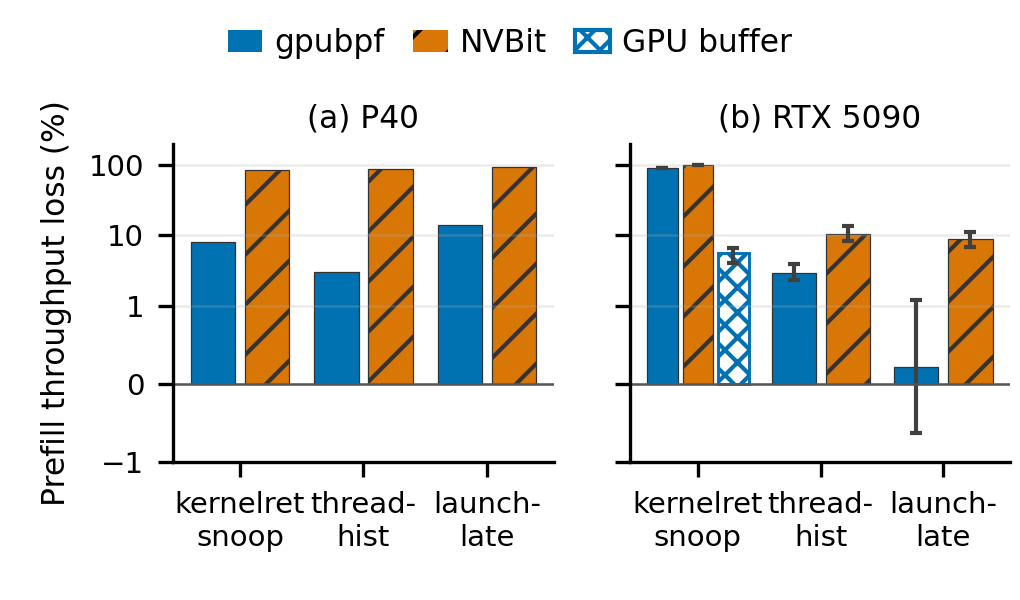
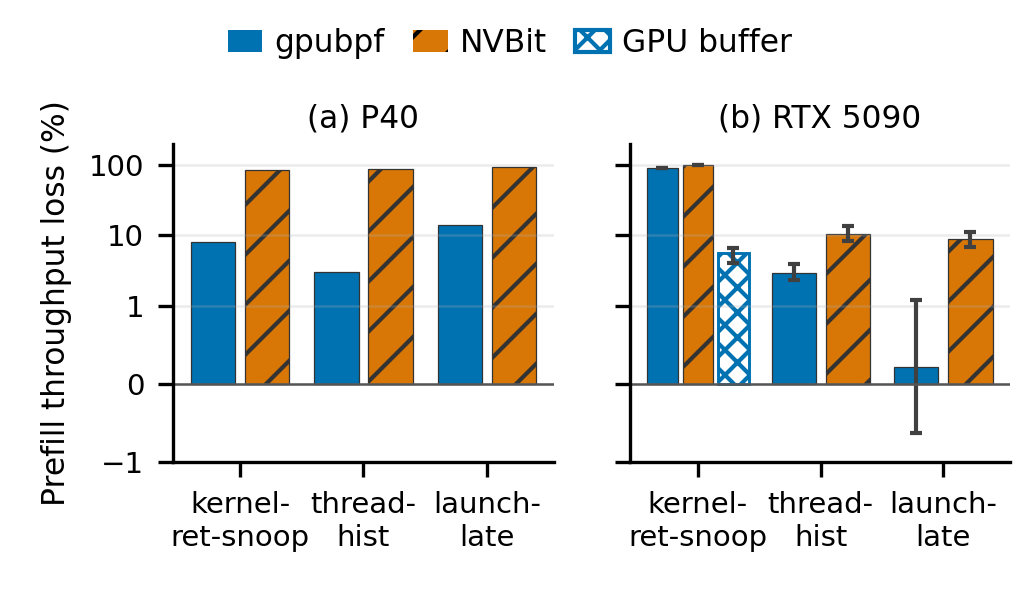
paper: separate observability tool tick labels

Changed region(s): [[0.6078, 0.81, 0.7598, 0.93], [0.152, 0.81, 0.3039, 0.93]]

diff --git a/tex-revision/img/results-raw/revision/plot_obs_with_array.py b/tex-revision/img/results-raw/revision/plot_obs_with_array.py
@@ -226,7 +226,7 @@ def _draw(data: dict, paths: list[Path]) -> None:
             axis.set_yscale("symlog", linthresh=1)
             axis.set_ylim(-1, 200)
             axis.set_yticks([-1, 0, 1, 10, 100], ["−1", "0", "1", "10", "100"])
-            axis.set_xticks(range(3), ["kernelret\nsnoop", "thread-\nhist", "launch-\nlate"])
+            axis.set_xticks(range(3), ["kernel-\nret-snoop", "thread-\nhist", "launch-\nlate"])
             axis.set_title(("(a) P40", "(b) RTX 5090")[column], fontsize=7.5, pad=4)
             axis.grid(axis="y", alpha=.25, linewidth=.6)
             axis.axhline(0, color="#555555", linewidth=.6)
